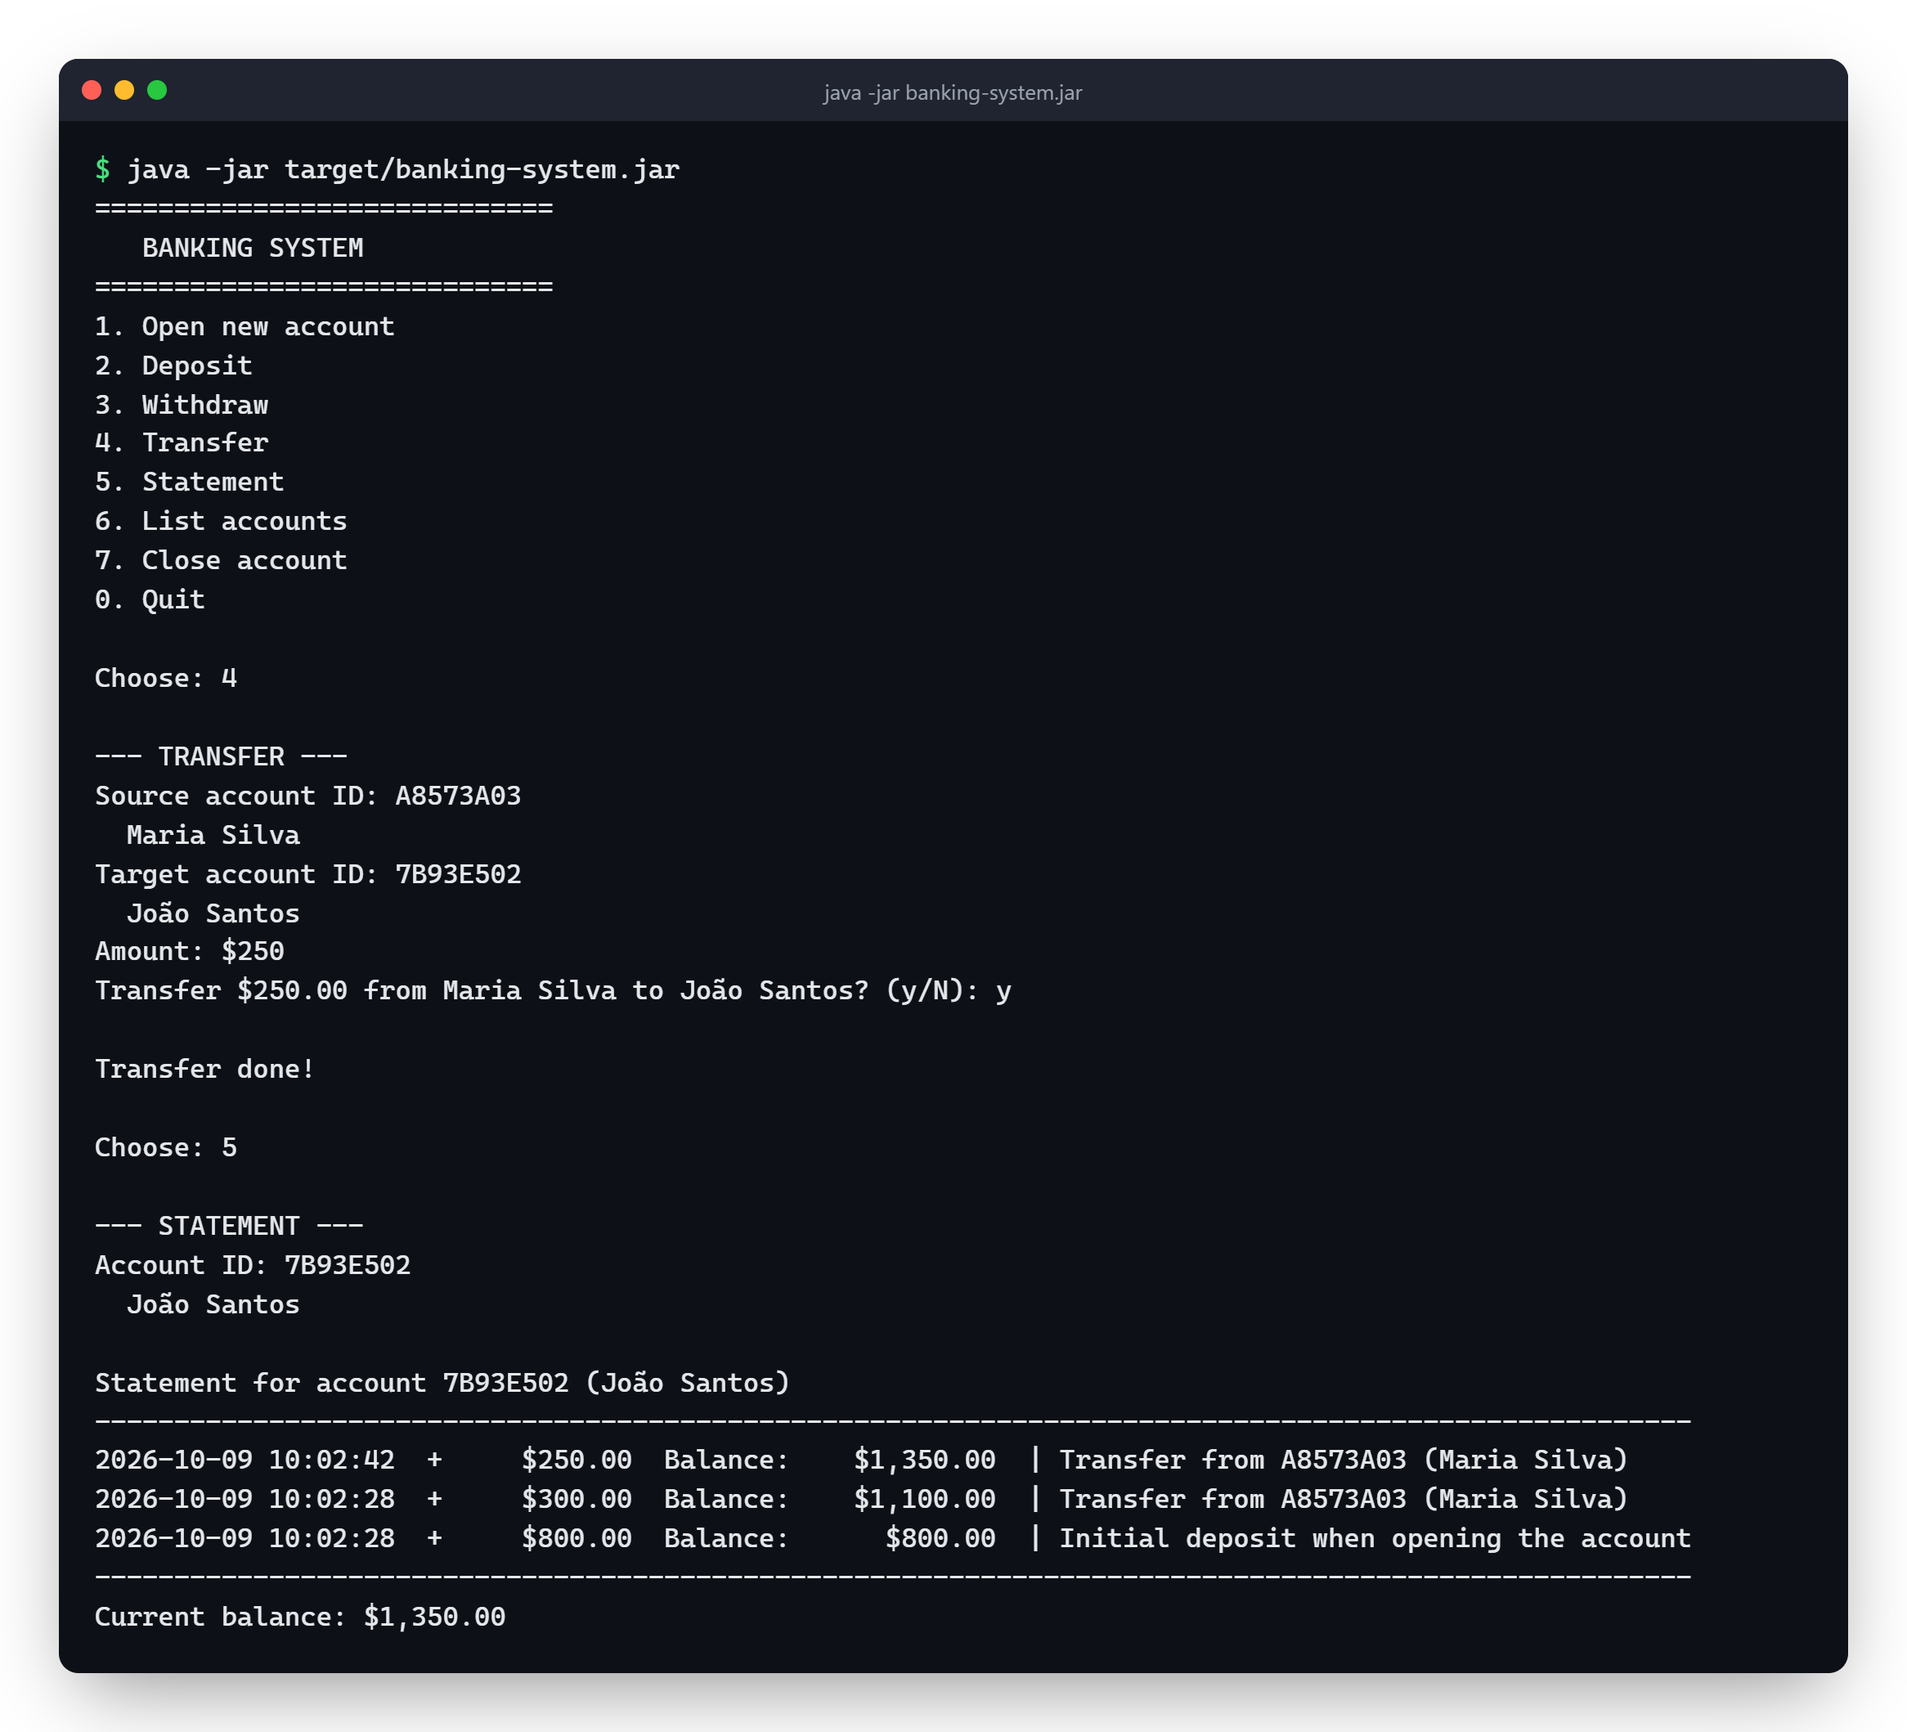
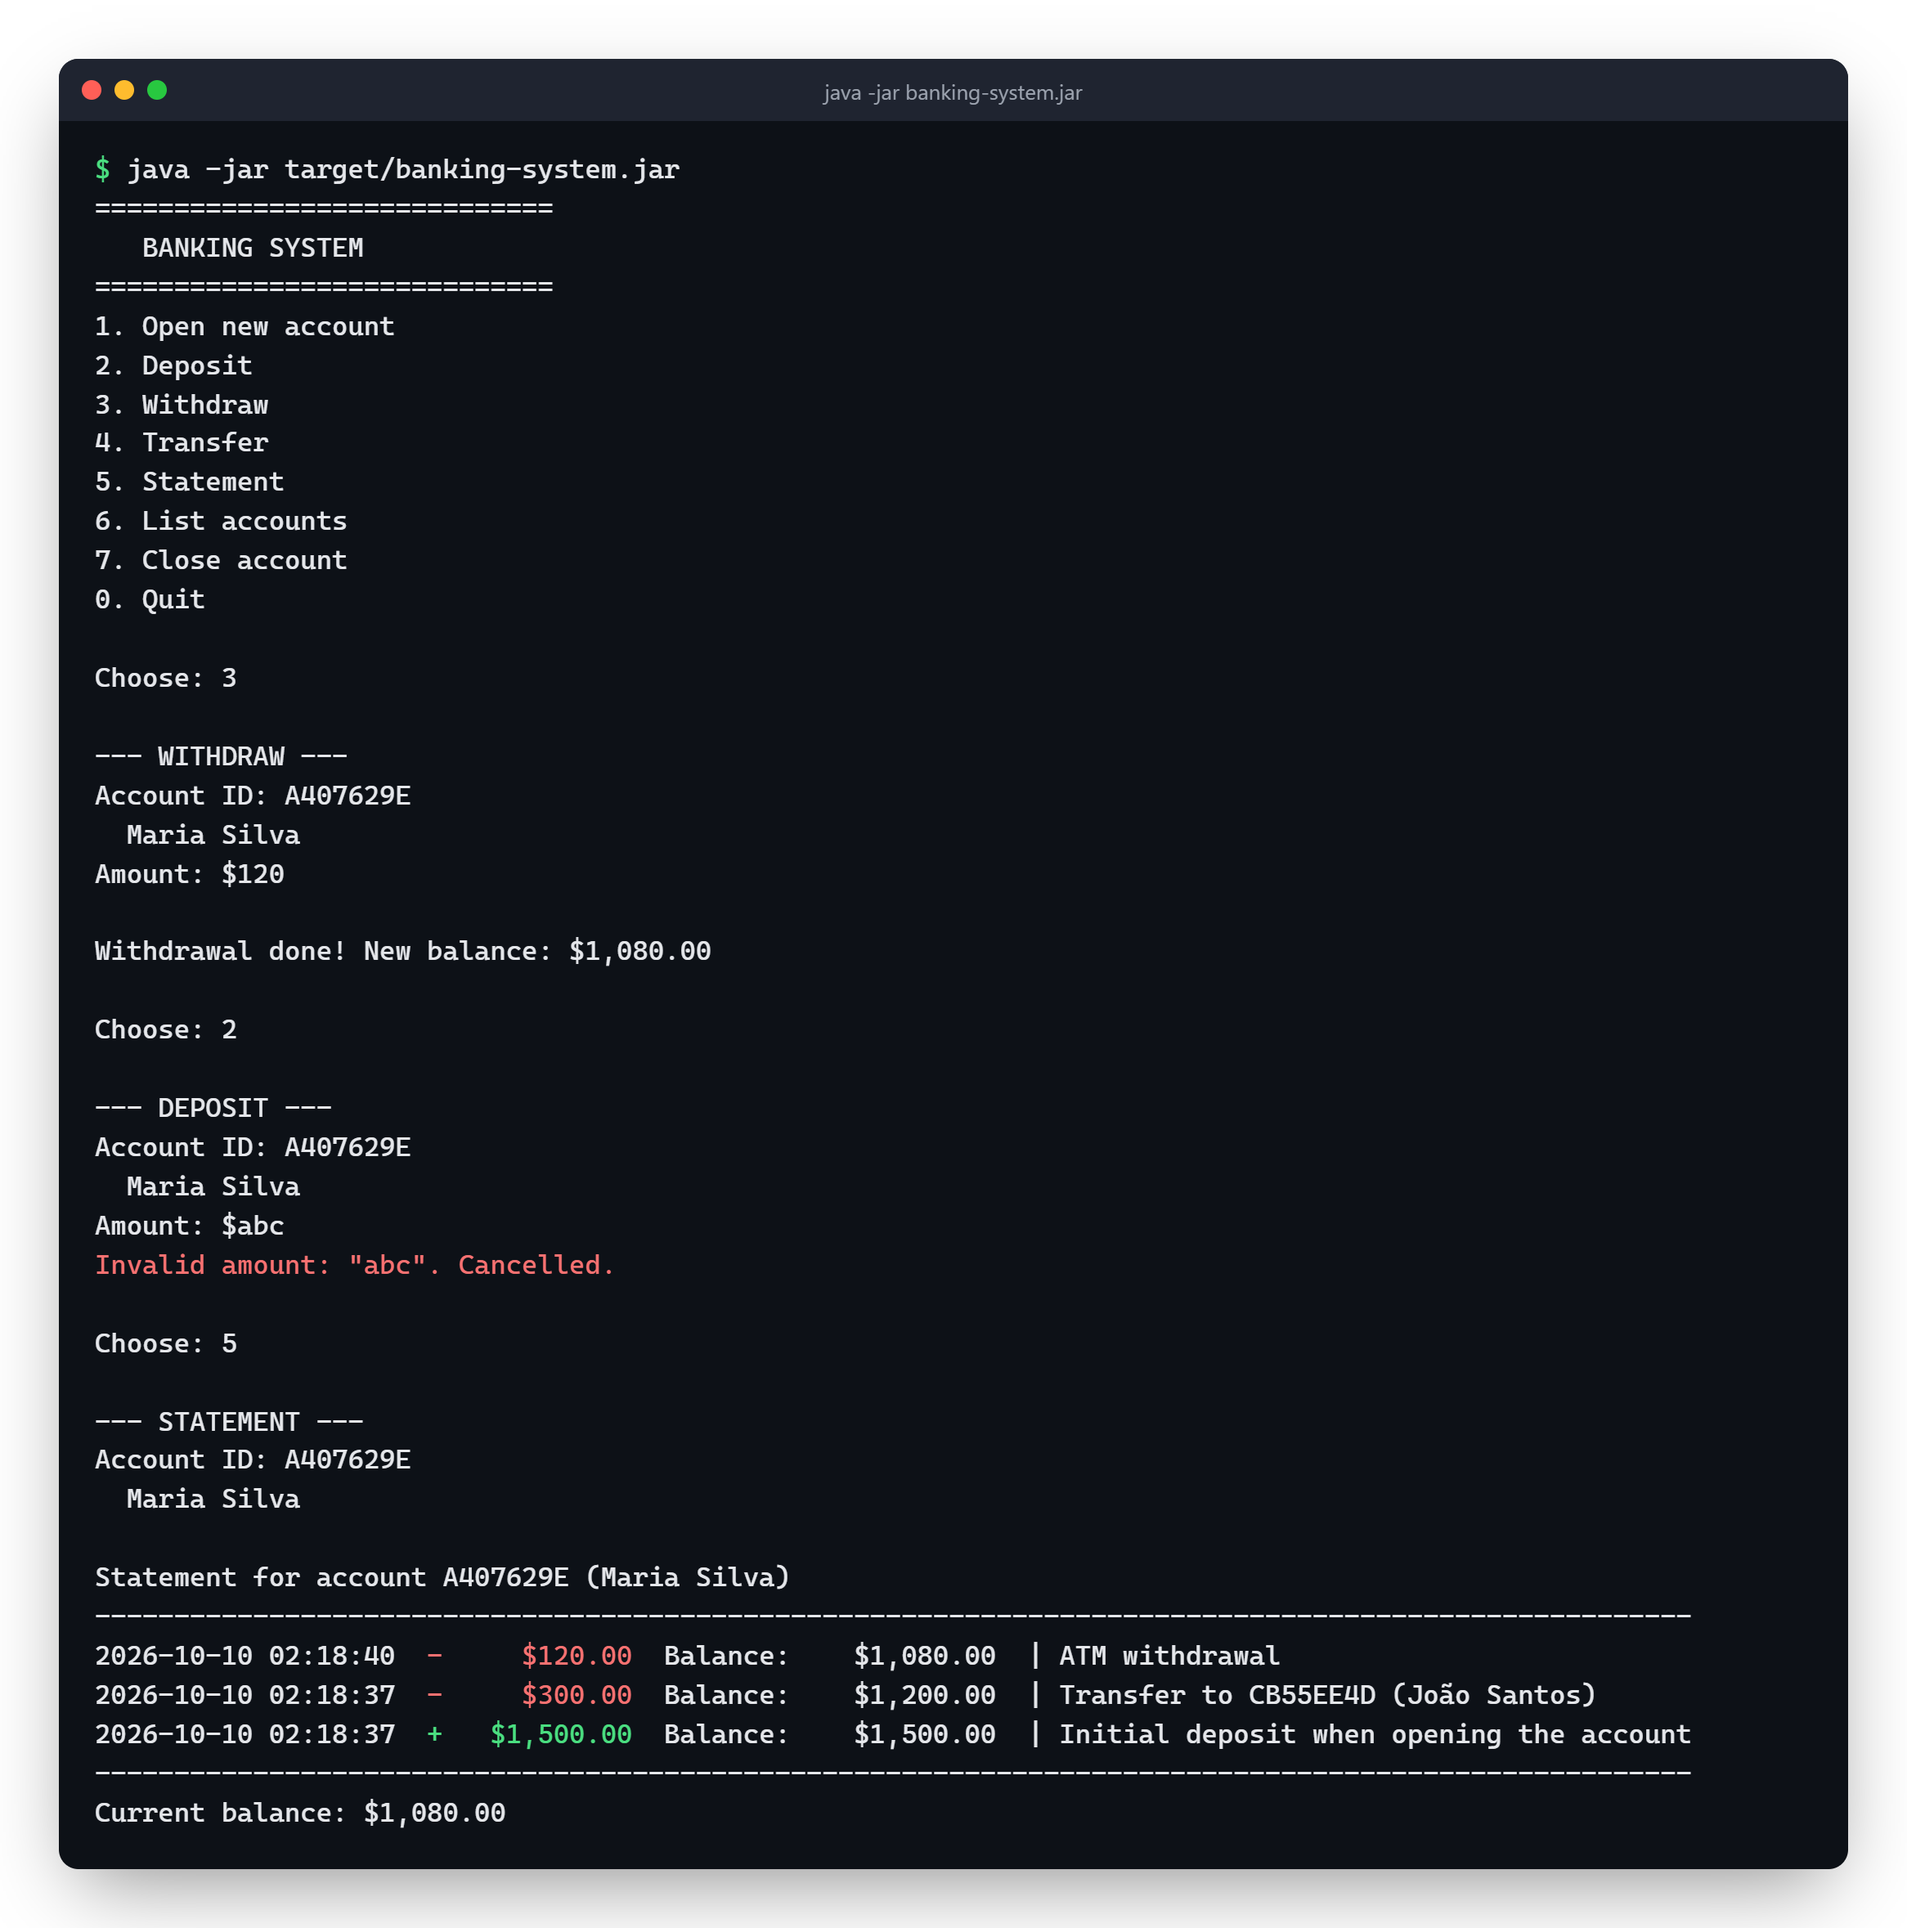
readme: new screenshot with the colors, and how to turn them off

Changed region(s): [[0.0309, 0.0312, 0.9571, 0.9972], [0.3087, 0.4674, 0.3705, 0.4986], [0.247, 0.6544, 0.2779, 0.6856]]

diff --git a/README.md b/README.md
@@ -25,13 +25,15 @@ mvn test
 
 ## What it looks like
 
-A transfer and the statement of the person who got it:
+A withdrawal, a typo in the amount and the statement, with money in shown in green and money out in red:
 
-![A transfer and the statement in the terminal](docs/screenshot.png)
+![A withdrawal, an invalid amount and the statement in the terminal](docs/screenshot.png)
 
 Right after you type the ID, the program shows whose account it is. If you get the ID wrong, you find out right away, not after typing the amount. And the transfer only happens after you confirm seeing the name of who's getting the money.
 
 On Windows, if accented names look weird in the terminal, run `chcp 65001` first.
+
+The colors only show up in a real terminal, so `java -jar banking-system.jar > out.txt` gives a clean file. Set `NO_COLOR=1` to turn them off or `FORCE_COLOR=1` to keep them when piping.
 
 ## Some decisions
 
